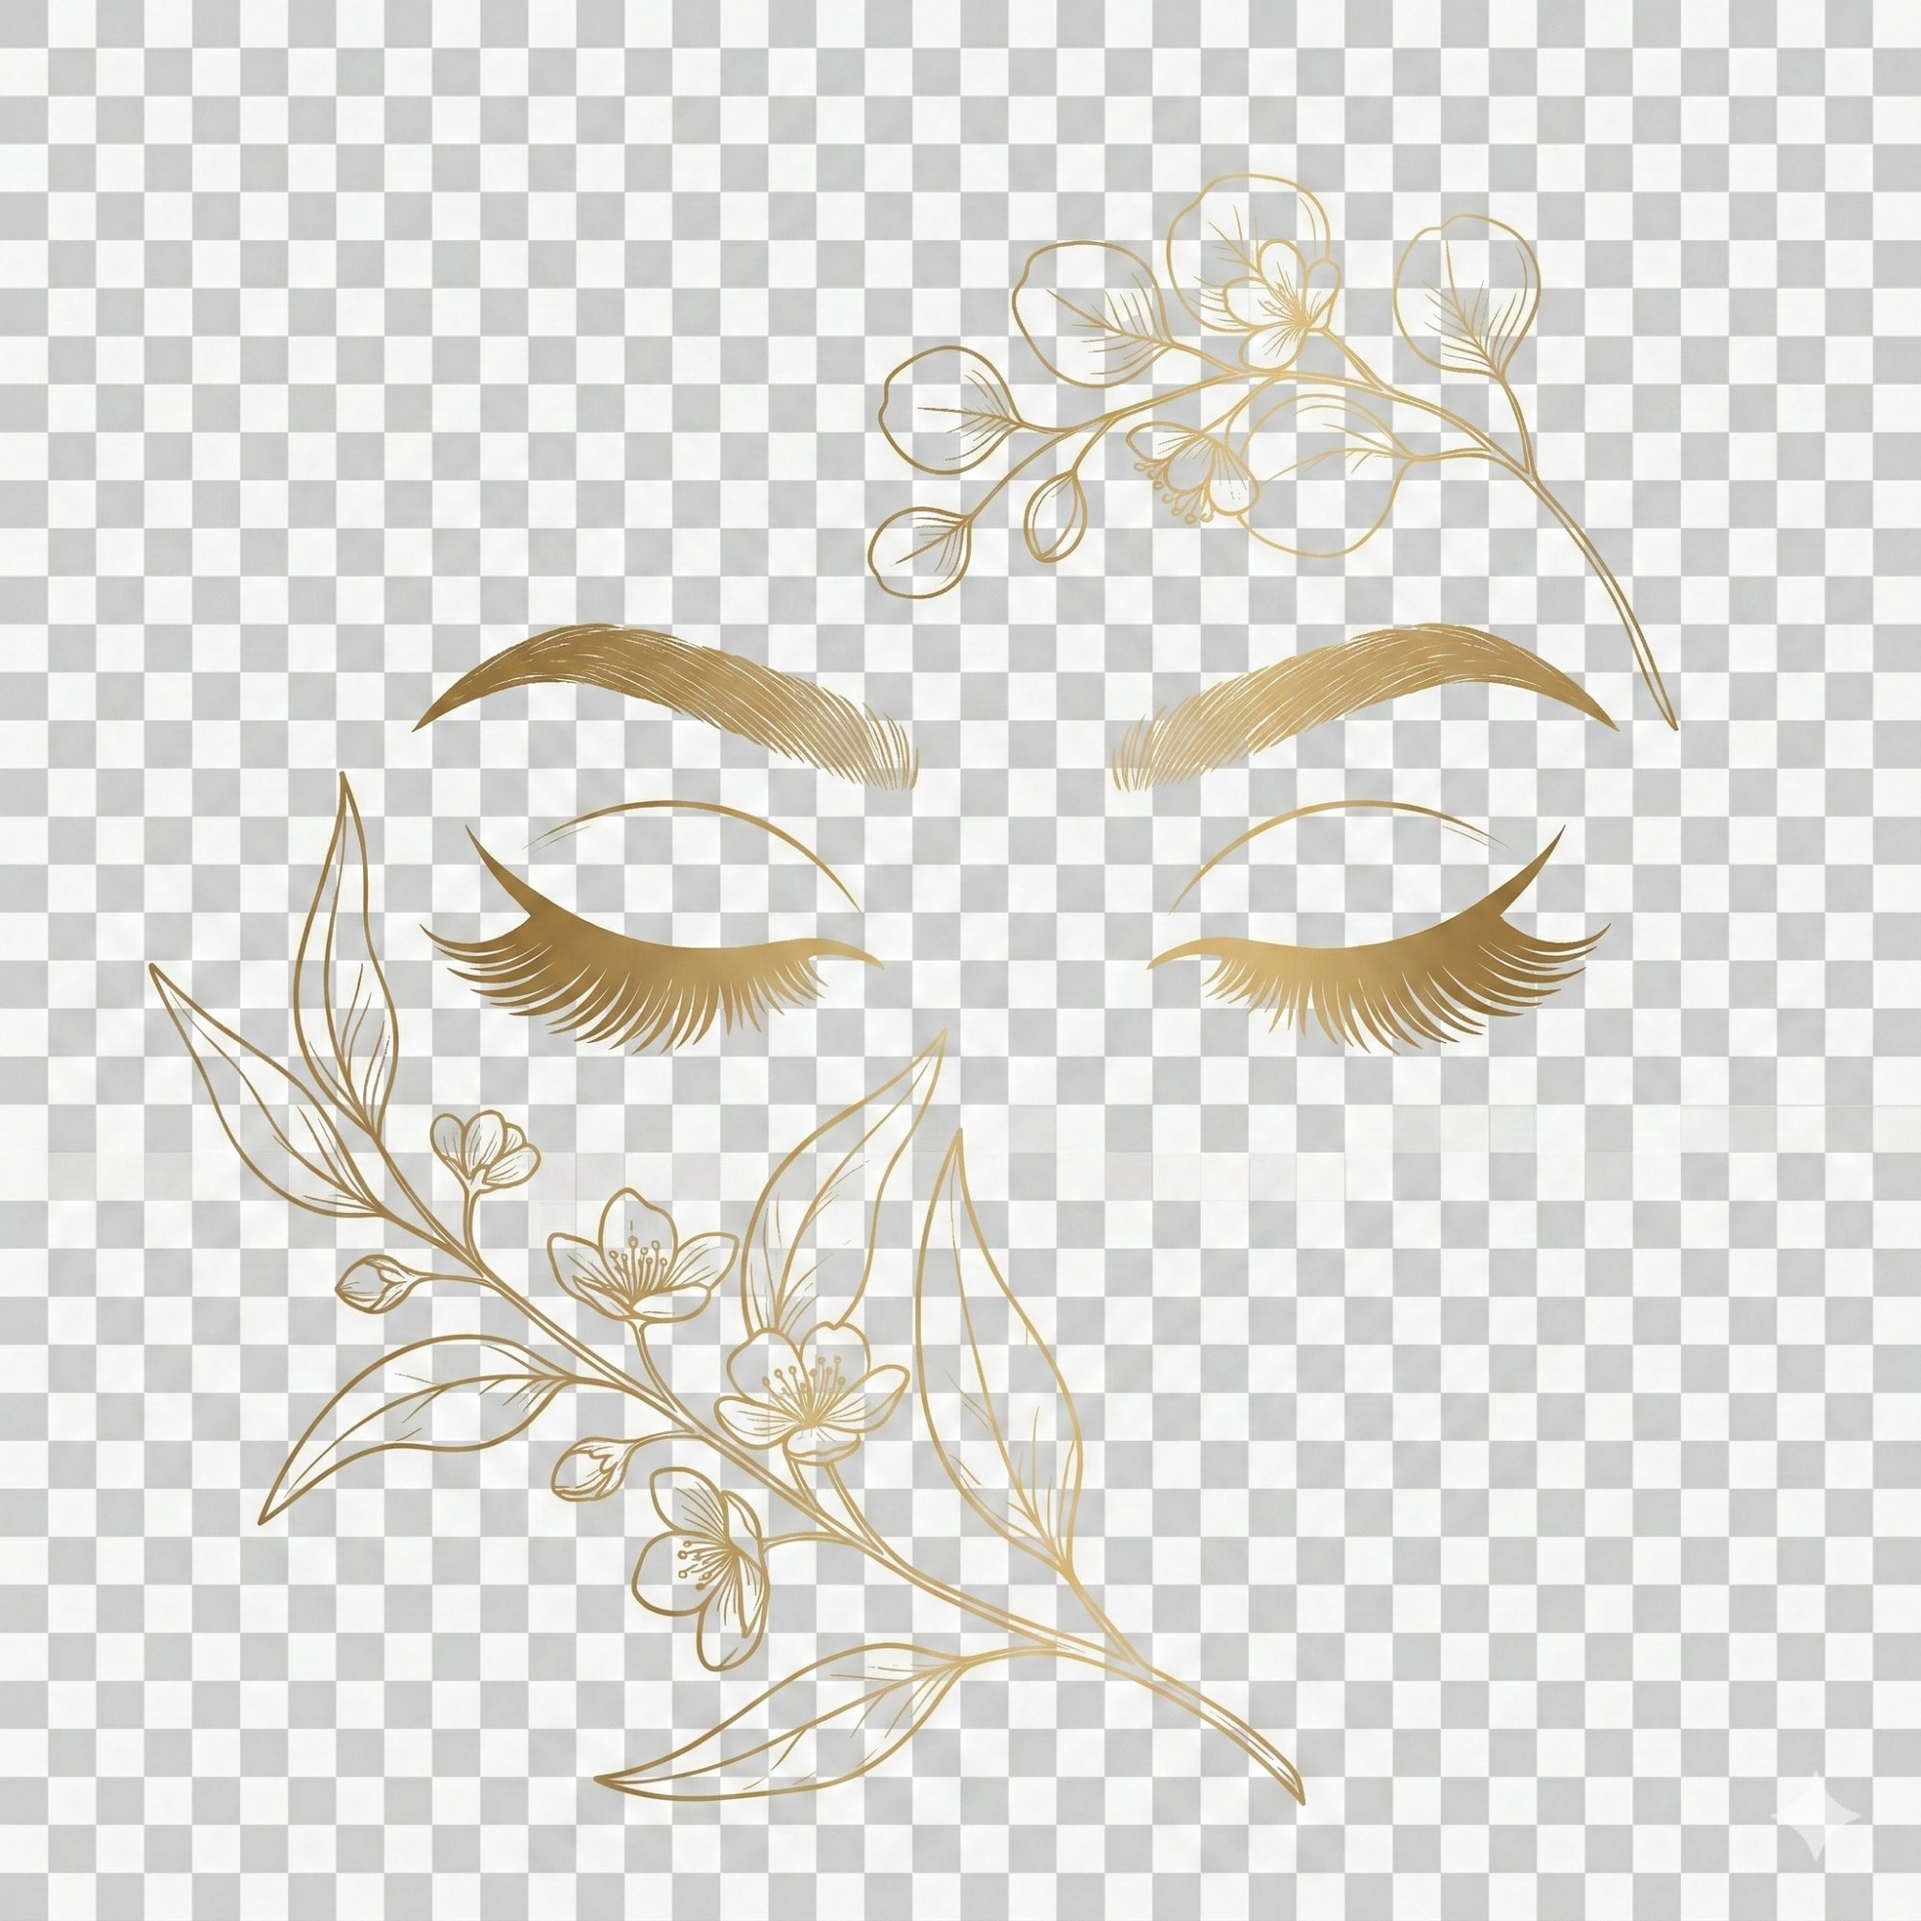
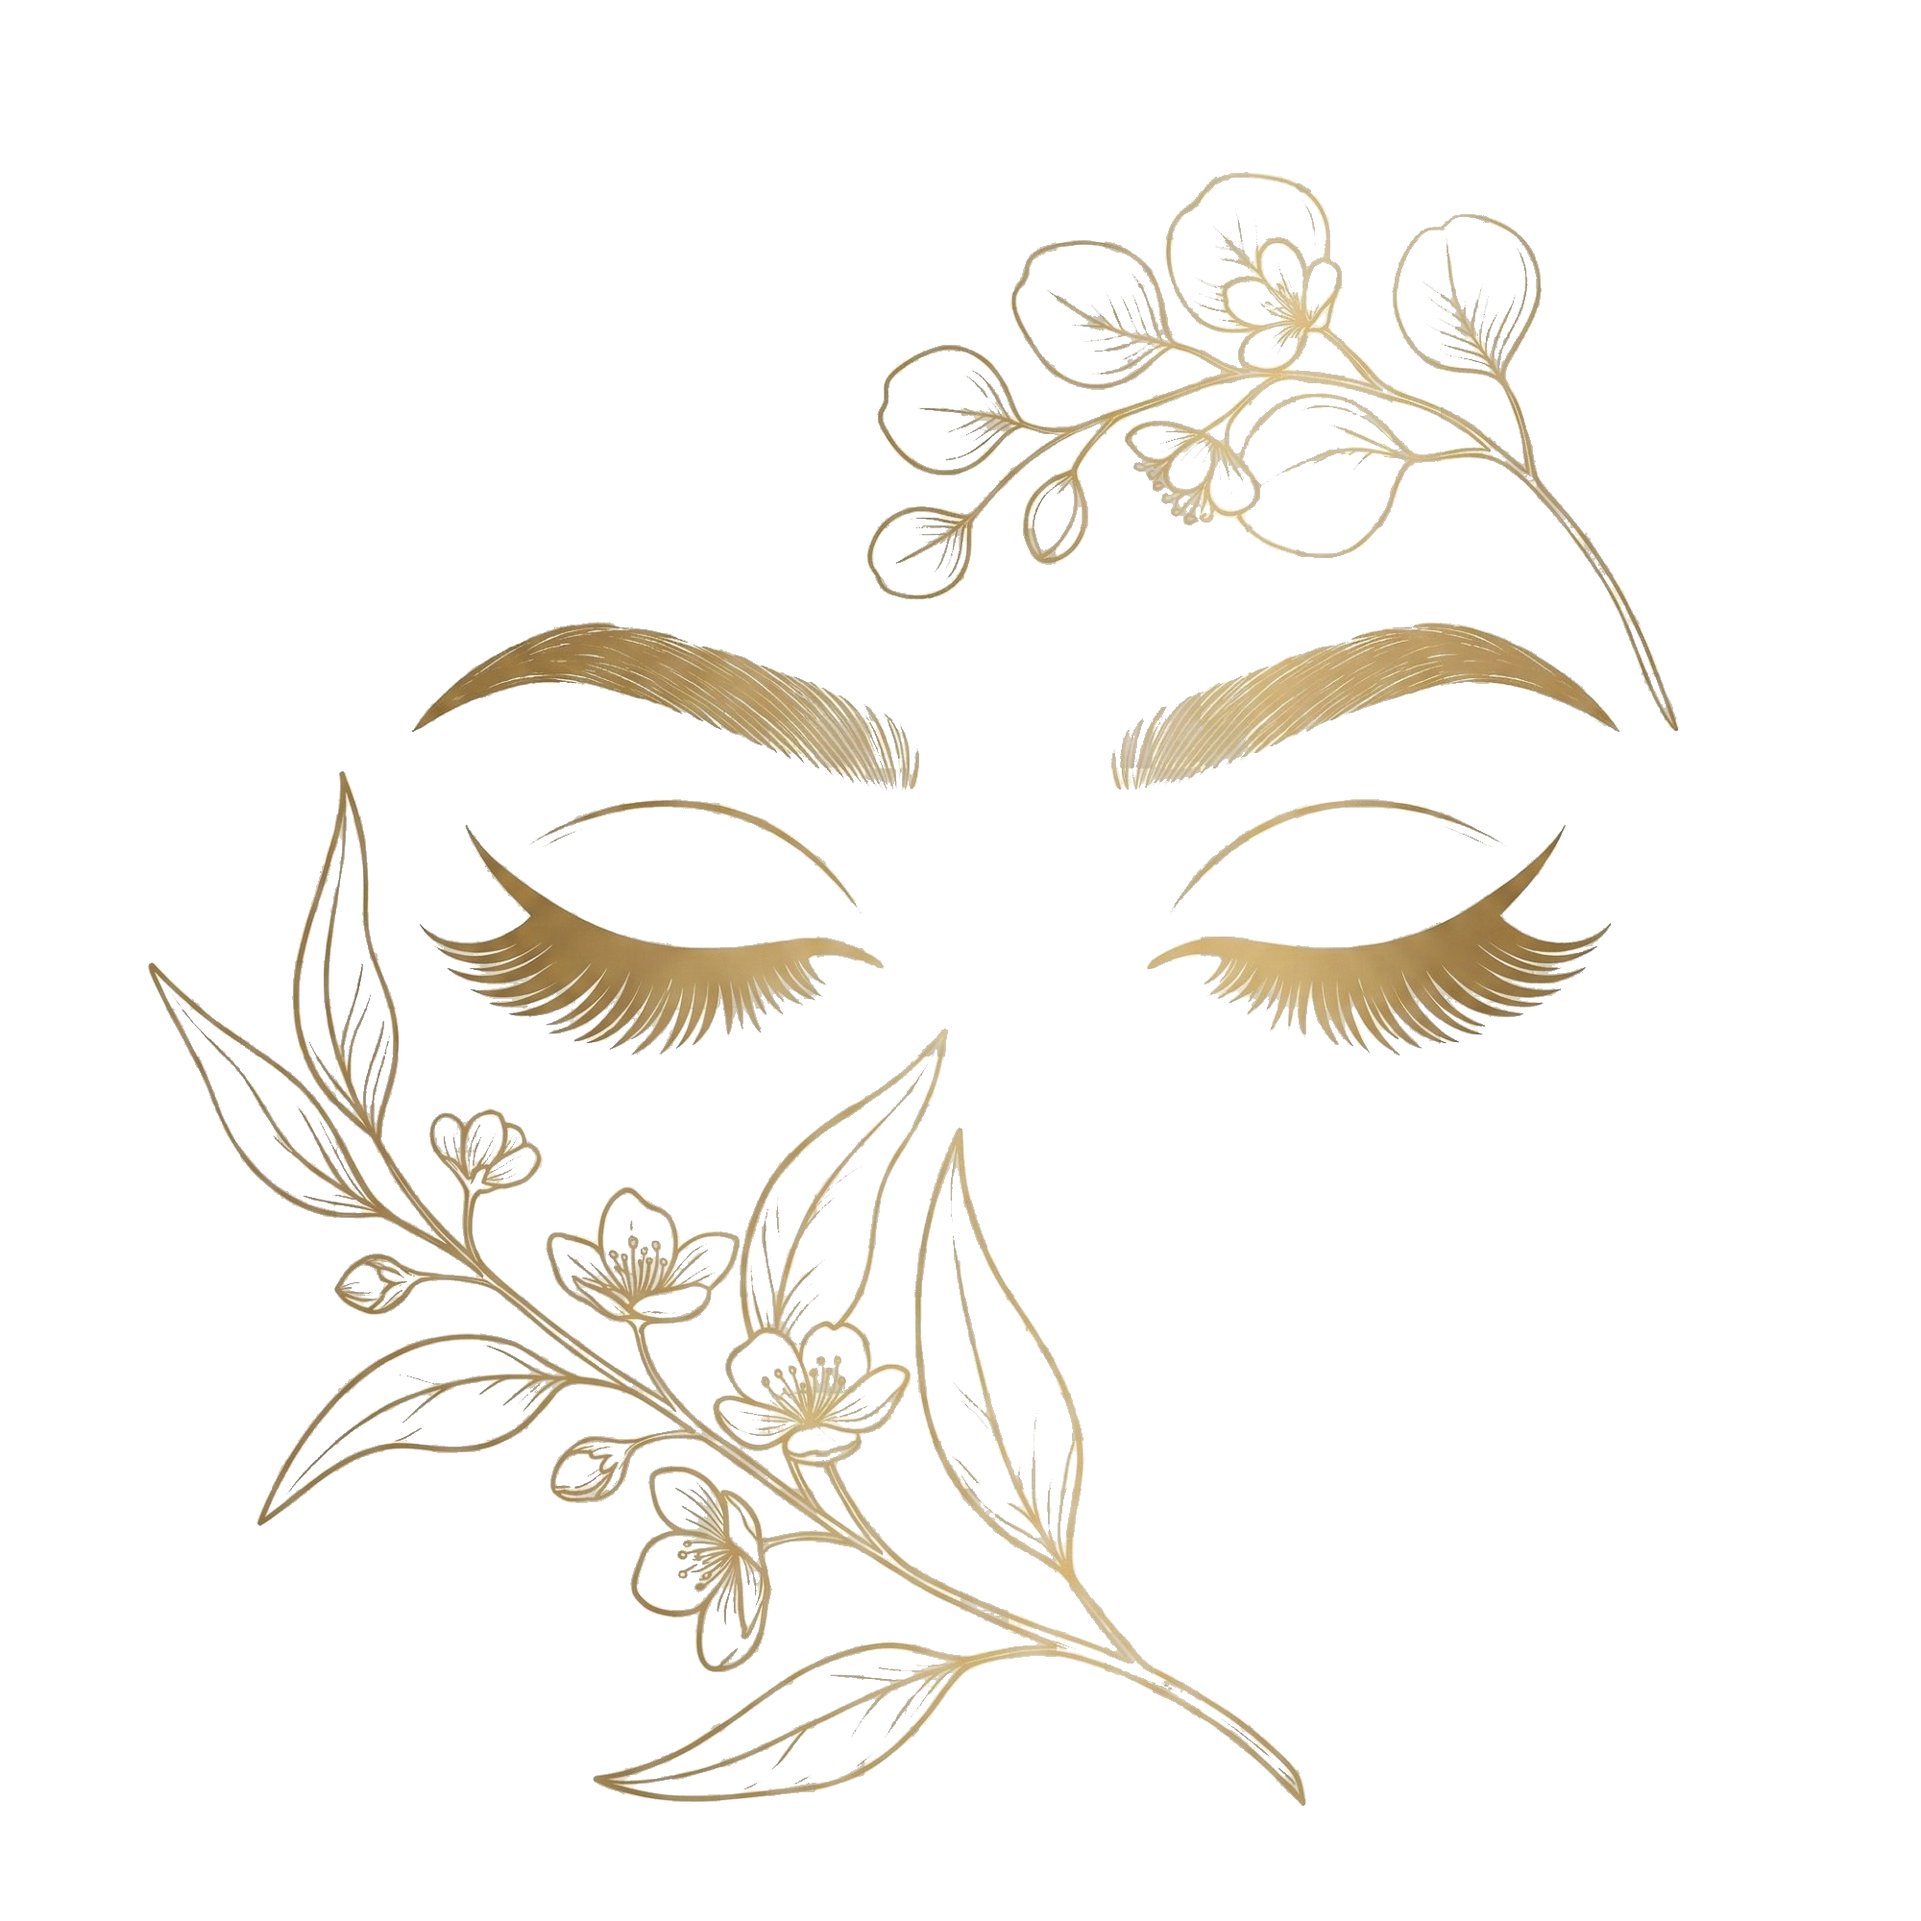
new images

diff --git a/styles.css b/styles.css
@@ -59,18 +59,18 @@ img{max-width:100%;height:auto}
 .particle{position:absolute;width:2px;height:2px;background:var(--gold);border-radius:50%;opacity:0;animation:particleFloat 12s infinite}
 @keyframes particleFloat{0%{opacity:0;transform:translateY(60vh) scale(0)}30%{opacity:.15}70%{opacity:.08}100%{opacity:0;transform:translateY(-10vh) scale(1)}}
 
-/* Beauty illustrations - PNG images */
-.hero-illust{position:absolute;top:50%;transform:translateY(-50%);width:340px;z-index:1;pointer-events:none;opacity:0;animation:illustFade 1.8s ease .8s forwards}
-.hero-illust-left{left:20px}
-.hero-illust-right{right:20px}
+/* Beauty illustrations - transparent PNGs */
+.hero-illust{position:absolute;top:50%;transform:translateY(-50%);width:420px;z-index:1;pointer-events:none;opacity:0;animation:illustFade 2s ease .6s forwards}
+.hero-illust-left{left:-20px}
+.hero-illust-right{right:-20px}
 .hero-illust img{width:100%;height:auto;display:block}
-@keyframes illustFade{to{opacity:.85}}
+@keyframes illustFade{to{opacity:.7}}
 
-/* Section decorative images */
-.section-decor{position:absolute;pointer-events:none;opacity:.12;z-index:0}
+/* Section decorative images - subtle background accents */
+.section-decor{position:absolute;pointer-events:none;opacity:.1;z-index:0}
 .section-decor img{width:100%;height:auto}
-.section-decor-right{right:-40px;top:50%;transform:translateY(-50%);width:280px}
-.section-decor-left{left:-40px;top:50%;transform:translateY(-50%);width:280px}
+.section-decor-right{right:-60px;top:50%;transform:translateY(-50%);width:320px}
+.section-decor-left{left:-60px;top:50%;transform:translateY(-50%);width:320px}
 .section{position:relative;overflow:hidden}
 
 /* Center content */
@@ -235,10 +235,11 @@ img{max-width:100%;height:auto}
 
 /* Responsive */
 @media(max-width:1400px){
-  .hero-illust{width:280px}
+  .hero-illust{width:340px}
 }
 @media(max-width:1200px){
-  .hero-illust{width:220px}.hero-illust-left{left:10px}.hero-illust-right{right:10px}
+  .hero-illust{width:260px}.hero-illust-left{left:-10px}.hero-illust-right{right:-10px}
+  .section-decor{width:220px!important}
 }
 @media(max-width:1024px){
   .section{padding:80px 40px}.navbar{padding:15px 30px}.navbar.scrolled{padding:10px 30px}
